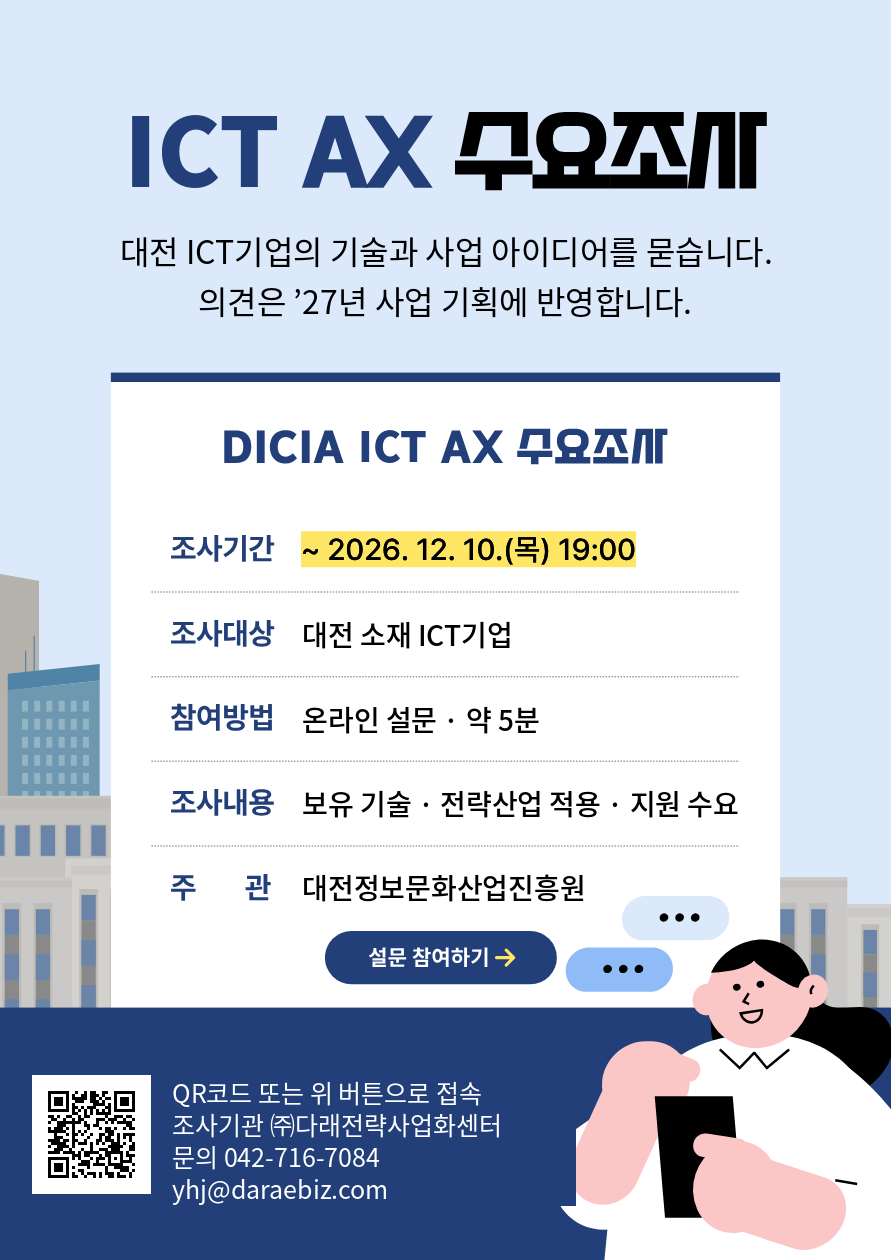
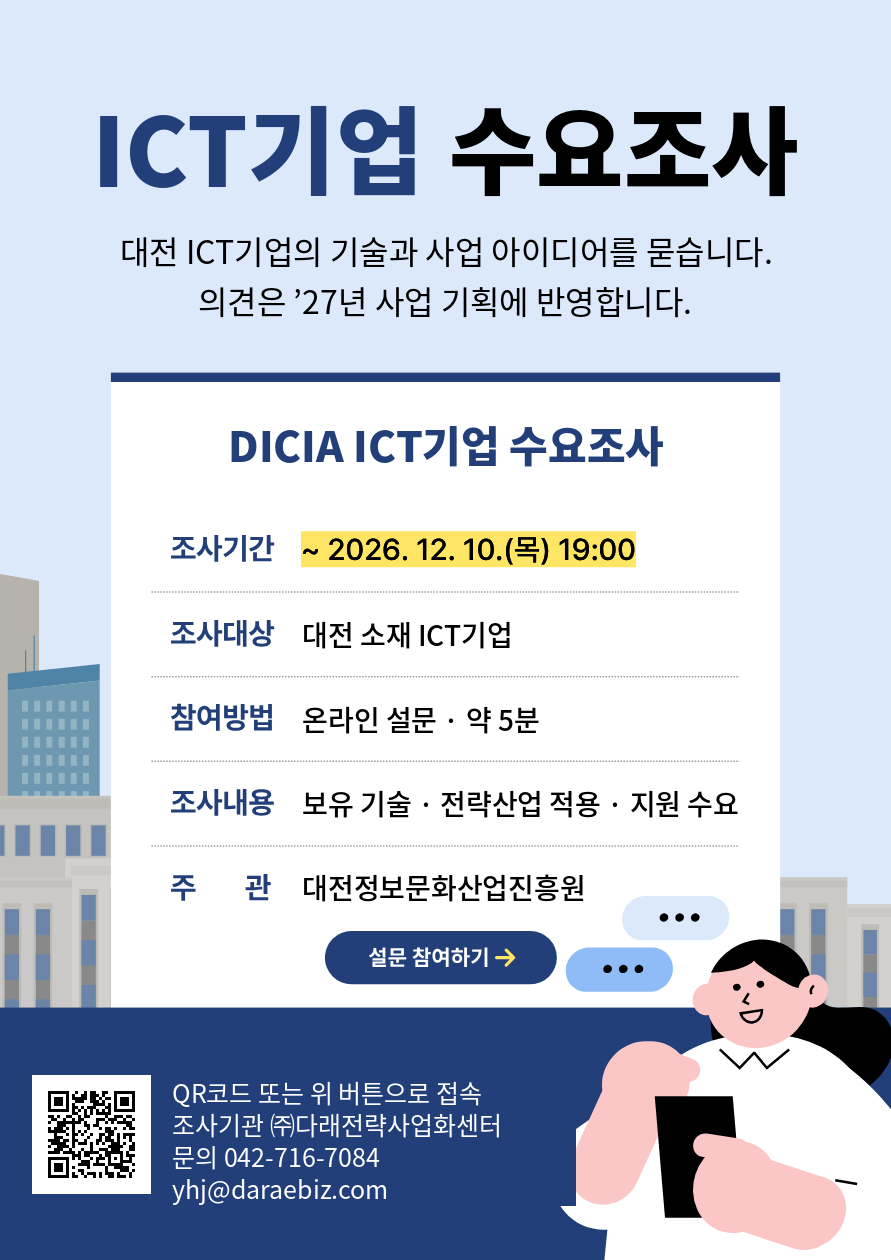
ICT기업 eDM 제목을 ICT기업 수요조사로 변경
Claude-Session: https://claude.ai/code/session_013m9DrUwrTfUE6XvxVDj4eS

Changed region(s): [[0.0909, 0.0619, 0.4848, 0.1548], [0.5152, 0.0619, 0.9091, 0.1548], [0.2424, 0.3405, 0.7576, 0.3714]]

diff --git a/dicia/edm-ict/edm.html b/dicia/edm-ict/edm.html
@@ -3,13 +3,13 @@
 <head>
 <meta charset="utf-8">
 <meta name="viewport" content="width=device-width,initial-scale=1">
-<title>ICT기업 AX 수요조사</title>
+<title>ICT기업 수요조사</title>
 </head>
 <body style="margin:0;padding:0;background:#ffffff;">
 <table role="presentation" cellpadding="0" cellspacing="0" border="0" width="100%"><tr><td align="center" style="padding:0;">
 <!-- 이미지 전체에 설문 링크 연결 (버튼 포함). 이미지맵을 지우는 메일 서비스에서도 동작 -->
 <a href="https://darae-daejeon.github.io/survey/dicia/ict" target="_blank" style="text-decoration:none;border:0;">
-<img src="https://darae-daejeon.github.io/survey/dicia/edm-ict/edm.png" width="891" height="1260" alt="DICIA ICT AX 수요조사. 조사기간 2026년 12월 10일(목) 19시까지. 설문 참여하기를 눌러 참여하세요. 문의 042-716-7084, yhj@daraebiz.com" border="0" style="display:block;width:891px;max-width:100%;height:auto;border:0;">
+<img src="https://darae-daejeon.github.io/survey/dicia/edm-ict/edm.png" width="891" height="1260" alt="DICIA ICT기업 수요조사. 조사기간 2026년 12월 10일(목) 19시까지. 설문 참여하기를 눌러 참여하세요. 문의 042-716-7084, yhj@daraebiz.com" border="0" style="display:block;width:891px;max-width:100%;height:auto;border:0;">
 </a>
 </td></tr>
 <tr><td align="center" style="padding:14px 0 24px;font-family:'Malgun Gothic',sans-serif;font-size:13px;color:#666666;">
